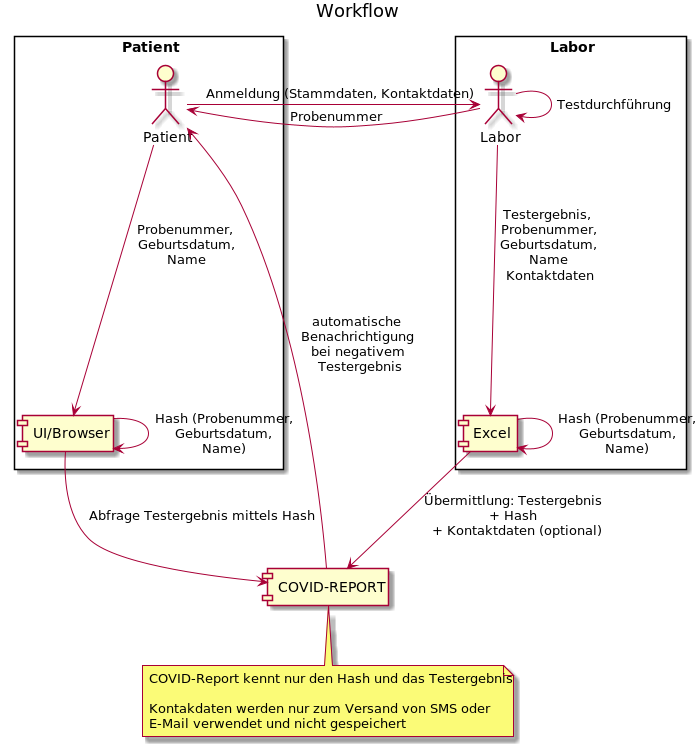
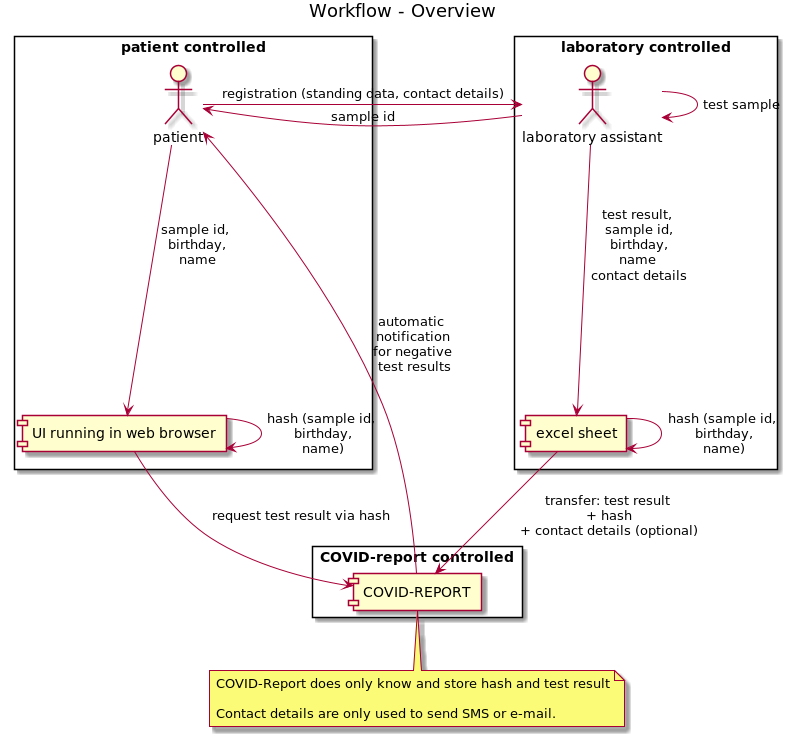
* added more documentation about the system and setup

Changed region(s): [[0.0, 0.0, 0.99, 0.9986], [0.18, 0.2185, 0.36, 0.3745], [0.18, 0.4057, 0.21, 0.4369]]

diff --git a/README.md b/README.md
@@ -1,94 +1,109 @@
-
 [![Open Source Love](https://badges.frapsoft.com/os/v2/open-source.png?v=103)](https://github.com/ellerbrock/open-source-badges/)
 [![MIT Licence](https://badges.frapsoft.com/os/mit/mit.png?v=103)](https://opensource.org/licenses/mit-license.php)
 [![Open API](https://img.shields.io/badge/Documentation-Open_API-green)](https://covid-report-be-qa.azurewebsites.net/swagger-ui/)
 ![Java CI with Maven](https://github.com/COVID-Report/wirvsvirus-backend-quarkus/workflows/Java%20CI%20with%20Maven/badge.svg) [![Coverage Status](https://coveralls.io/repos/github/COVID-Report/wirvsvirus-backend-quarkus/badge.svg?branch=feature/issue3-add-missing-functionality)](https://coveralls.io/github/COVID-Report/wirvsvirus-backend-quarkus?branch=master) [![Sonarcloud Status](https://sonarcloud.io/api/project_badges/measure?project=com.lapots.breed.judge:judge-rule-engine&metric=alert_status)](https://sonarcloud.io/dashboard?id=COVID-Report_wirvsvirus-backend-quarkus)
 
 
-# COVID-Report backend
 
-## Team 1896 - Kommunikation von Testergebnissen
-Backend zum Thema Kommunikation von Testergebnissen. Hier soll der Kommunikationsfluss von Testergebnissen zurück zu den Patienten 
-erleichtert und beschleunigt werden. 
+# COVID-Report: Lightweight automated reporting of test results
 
-## Idee
-Integration eines Informations services in die bestehenden Prozesse der Test Stationen. Der Fokus liegt auf einfacher Bedienbarkeit 
-für medizinisches Personal und Patienten. 
-Ein besonderer Punkt ist die Lösung des Problems, dass aktuell Patienten mit negativem Testergebnis aktuell keine aktive 
-Benachrichtigung erhalten. Dies führt zu erheblichen Unsicherheiten bei den Patienten.
+COVID-Report is a simple system to automate the notification of medical test results.
 
-## Umsetzung
+It was started in the [#WIRVSVIRUS](https://wirvsvirus.org/) hackathon of the german goverment.
+There is a [(german) description of hackathon idea on devpost.com](https://devpost.com/software/1986-kommunikation-von-testergebnissen).
 
-### Schnittstellen
-* REST API zum Hinterlegen von anonymisierten Testergebnissen (nicht öffentlich, für medizinische Einrichtungen)
-* REST API zum Erfragen von Testergebnissen (anonyme Nutzung durch Web UI)
-* [Beschreibung der Schnittstelle als Open API](https://covid-report-be-qa.azurewebsites.net/swagger-ui/)
+The goal was to provide a secure, easy to use and easy to integrate service to report negative test results to patients.
 
-### Funktionen
-Zusätzlich zu den oben genannten APIs soll der Service auch ermöglichen automatisiert Benachrichtigungen an die Patienten zu versenden
-(sofern diese sich mit Kontaktinformationen beim Test angemeldet haben). Aktuell prototypisch implementiert sind: 
-* Webseite
-* EMail
-* SMS
+Positive test results should still be delivered by the health personal since the patient probably has questions that should be answered.
 
-weitere Kanäle in Planung
-* Telefon (via automatisiertem Anruf)
+## The COVID-Report system
 
-#### Workflow
+![Building blocks](images/building_blocks.png)
+
+The COVID-Report system consists of three components
+
+* an Angular frontend [wirvsvirus-testergebnis-ui](https://github.com/COVID-Report/wirvsvirus-testergebnis-ui)
+   * it provides an UI for the patient to request the test status and result
+* an Java backend [wirvsvirus-backend-quarkus](https://github.com/COVID-Report/wirvsvirus-backend-quarkus)
+   * provides REST interfaces for UI and laboratory integration
+* an example laboratory integration via excel templates [WirVsVirus-1896-Excel-Template](https://github.com/COVID-Report/WirVsVirus-1896-Excel-Template)
+   * This is mainly to show how an integration can work. 
+   Laboratories probably want to integrate the solution in their already existing systems.
+   
+## Workflow
+
+![Workflow](images/workflow_sequence.png)
+
+* When a patient is tested, a sample is taken e.g. at the doctor or in a hospital. 
+   * the patient leaves her name, birthday, contact details and received a sample id
+
+* After the sample has been tested to result is uploaded to the COVID-Report backend.
+   * The result is uploaded together with a hash code which has been generated from the sample id, 
+   the name and birthday of the patient.
+   * Optional some contact details like e-mail address or mobile number are sent to the backend.
+
+* The backend stores the hash and test result pair in it's database.
+* When the test result is negative and contact details are passed,
+the backend informs the patient about the test result.
+** The contact details are only used for notification and are not stored in the backend.
+* The patient can use the COVID-Report frontend UI to check the test status.
+   * She enters the sample id, name and birthday on the website which calculates the hash and requests the backend 
+for the test result associated with that hash.
+
+
+### Communication flow
 ![Workflow](images/workflow.png)
 
-* Patient meldet sich beim medizinischen Personal an (mit Stammdaten und evtl. Kontaktdaten)
-* Patient erhält seine Probennummer (erstellt vom medizinischen Personal/Labor)
-* Test wird vom Labor durchgeführt und rückgemeldet
-* via hashing wird eine anonymisierte Id erstellt (enthält: Geburtsdatum, Name, Probennummer)
-* Testergebnis wird an den Service übermittelt (anonyme Id + Ergebnis + Kontaktinformation falls vorhanden)
-* Testergebnis wird unter anonymisierter Id gespeichert, falls Kontaktinformation vorhanden wird eine Nachricht gesendet
-* Testergebnis ist nun via Webseite abrufbar (unter Angabe von Geburtsdatum, Name, Probennummer)
+## Security
 
+The system is designed with data protection in mind. The backend stores the test results together with a hash.
+The hash is created from multiple values - in the default setup from the patients name and birthday 
+and the id of the sample taken. 
 
-### Systemübersicht
+Only if these three values are known, one can request the result from the backend.
+Pushing test results to the backend is also protected by username/password credentials.
 
-* client für medizinisches Personal (Excel)
-* backend (dieser service)
-* [frontend (Website für Zugriff auf Informationen zum Testergebnis)](https://github.com/DominikGri/wirvsvirus-testergebnis-ui)
+## Setting up the system
 
-## Links
-* hackathon https://wirvsvirushackathon.org/
-* topics https://airtable.com/shrs71ccUVKyvLlUA/tbl6Br4W3IyPGk1jt/viw7AlEju6qFtXJqL?blocks=hide
-* https://github.com/DominikGri/wirvsvirus-testergebnis-ui
+COVID-Report can be run on a public cloud (we used Microsoft Azure for testing) as well as 
+on a local server.
 
-## The backend project
+There is a [docker-compose file](https://github.com/COVID-Report/wirvsvirus-compose) to run an environment using docker.
+ 
+### Requirements
 
-This implementation uses [Quarkus](https://quarkus.io/)
+* Backend
+  * System requirements: Java SE 11, 1 GB RAM 
+     * our test system runs in Azure App Service Plan F1
+  * a [mongodb](https://www.mongodb.com/) to persist the data (mandatory)
+  * a [sendgrid account](https://app.sendgrid.com/) to send e-mails (optional)
+  * a [sms4 account](https://www.sms4.de) to send SMS (optional)
+  * see [README-Configuration.md](README-Configuration.md) for configuration parameters
+  
+* Frontend
+  * a web server hosting the application file (e.g. nginx)
+     * our test system uses an Azure Storage with "Static website" feature enabled
+     
 
+### Links
 
-## Running the application in dev mode
+* [wirvsvirus-testergebnis-ui](https://github.com/COVID-Report/wirvsvirus-testergebnis-ui)
+* [wirvsvirus-backend-quarkus](https://github.com/COVID-Report/wirvsvirus-backend-quarkus)
+    * [Backend readme](https://github.com/COVID-Report/wirvsvirus-backend-quarkus/README-Backend.md)
+    * [Backend API description Swagger UI](https://joemat-crtest.azurewebsites.net/swagger-ui/)
+    * API examples for IntelliJ REST client: [restclient/restclient.rest](restclient/restclient.rest)
+* [WirVsVirus-1896-Excel-Template](https://github.com/COVID-Report/WirVsVirus-1896-Excel-Template)
 
-To run the application a mongodb is required.
+#### Test environment 
 
-You can run your application in dev mode that enables live coding using:
-```
-./mvnw quarkus:dev
-```
+* [Frontend UI](https://covidreportuitest.z6.web.core.windows.net/index.html)
+* [Backend API description Swagger UI](https://joemat-crtest.azurewebsites.net/swagger-ui/)
 
-## Packaging and running the application
+First request may take multiple seconds since app is started on request.
 
-The application can be packaged using `./mvnw package`.
-It produces the jar file in the `/target` directory.
-Be aware that it’s not an _über-jar_ as the dependencies are copied into the `target/lib` directory.
+Test users
 
-The application is now runnable using `java -jar target/backend-1.0.0-SNAPSHOT-runner.jar`.
-
-## Creating a native executable
-
-You can create a native executable using: `./mvnw package -Pnative`.
-
-Or, if you don't have GraalVM installed, you can run the native executable build in a container using: `./mvnw package -Pnative -Dquarkus.native.container-build=true`.
-
-You can then execute your native executable with: `./target/backend-1.0.0-SNAPSHOT-runner`
-
-If you want to learn more about building native executables, please consult https://quarkus.io/guides/building-native-image-guide.
-
-## Endpoints
-
-See [restclient/restclient.rest](restclient/restclient.rest)
+|Sample Id | Name |    Birthday | Test result |
+|----------|------|-------------|-------------|
+|    123   | John |  01.02.1980 | negative    |
+|    123   |  Doe |  01.02.1980 | positive    |

diff --git a/README-Backend.md b/README-Backend.md
@@ -1,0 +1,94 @@
+
+[![Open Source Love](https://badges.frapsoft.com/os/v2/open-source.png?v=103)](https://github.com/ellerbrock/open-source-badges/)
+[![MIT Licence](https://badges.frapsoft.com/os/mit/mit.png?v=103)](https://opensource.org/licenses/mit-license.php)
+[![Open API](https://img.shields.io/badge/Documentation-Open_API-green)](https://covid-report-be-qa.azurewebsites.net/swagger-ui/)
+![Java CI with Maven](https://github.com/COVID-Report/wirvsvirus-backend-quarkus/workflows/Java%20CI%20with%20Maven/badge.svg) [![Coverage Status](https://coveralls.io/repos/github/COVID-Report/wirvsvirus-backend-quarkus/badge.svg?branch=feature/issue3-add-missing-functionality)](https://coveralls.io/github/COVID-Report/wirvsvirus-backend-quarkus?branch=master) [![Sonarcloud Status](https://sonarcloud.io/api/project_badges/measure?project=com.lapots.breed.judge:judge-rule-engine&metric=alert_status)](https://sonarcloud.io/dashboard?id=COVID-Report_wirvsvirus-backend-quarkus)
+
+
+# COVID-Report backend
+
+## Team 1896 - Kommunikation von Testergebnissen
+Backend zum Thema Kommunikation von Testergebnissen. Hier soll der Kommunikationsfluss von Testergebnissen zurück zu den Patienten 
+erleichtert und beschleunigt werden. 
+
+## Idee
+Integration eines Informations services in die bestehenden Prozesse der Test Stationen. Der Fokus liegt auf einfacher Bedienbarkeit 
+für medizinisches Personal und Patienten. 
+Ein besonderer Punkt ist die Lösung des Problems, dass aktuell Patienten mit negativem Testergebnis aktuell keine aktive 
+Benachrichtigung erhalten. Dies führt zu erheblichen Unsicherheiten bei den Patienten.
+
+## Umsetzung
+
+### Schnittstellen
+* REST API zum Hinterlegen von anonymisierten Testergebnissen (nicht öffentlich, für medizinische Einrichtungen)
+* REST API zum Erfragen von Testergebnissen (anonyme Nutzung durch Web UI)
+* [Beschreibung der Schnittstelle als Open API](https://covid-report-be-qa.azurewebsites.net/swagger-ui/)
+
+### Funktionen
+Zusätzlich zu den oben genannten APIs soll der Service auch ermöglichen automatisiert Benachrichtigungen an die Patienten zu versenden
+(sofern diese sich mit Kontaktinformationen beim Test angemeldet haben). Aktuell prototypisch implementiert sind: 
+* Webseite
+* EMail
+* SMS
+
+weitere Kanäle in Planung
+* Telefon (via automatisiertem Anruf)
+
+#### Workflow
+![Workflow](images/workflow.png)
+
+* Patient meldet sich beim medizinischen Personal an (mit Stammdaten und evtl. Kontaktdaten)
+* Patient erhält seine Probennummer (erstellt vom medizinischen Personal/Labor)
+* Test wird vom Labor durchgeführt und rückgemeldet
+* via hashing wird eine anonymisierte Id erstellt (enthält: Geburtsdatum, Name, Probennummer)
+* Testergebnis wird an den Service übermittelt (anonyme Id + Ergebnis + Kontaktinformation falls vorhanden)
+* Testergebnis wird unter anonymisierter Id gespeichert, falls Kontaktinformation vorhanden wird eine Nachricht gesendet
+* Testergebnis ist nun via Webseite abrufbar (unter Angabe von Geburtsdatum, Name, Probennummer)
+
+
+### Systemübersicht
+
+* client für medizinisches Personal (Excel)
+* backend (dieser service)
+* [frontend (Website für Zugriff auf Informationen zum Testergebnis)](https://github.com/DominikGri/wirvsvirus-testergebnis-ui)
+
+## Links
+* hackathon https://wirvsvirushackathon.org/
+* topics https://airtable.com/shrs71ccUVKyvLlUA/tbl6Br4W3IyPGk1jt/viw7AlEju6qFtXJqL?blocks=hide
+* https://github.com/DominikGri/wirvsvirus-testergebnis-ui
+
+## The backend project
+
+This implementation uses [Quarkus](https://quarkus.io/)
+
+
+## Running the application in dev mode
+
+To run the application a mongodb is required.
+
+You can run your application in dev mode that enables live coding using:
+```
+./mvnw quarkus:dev
+```
+
+## Packaging and running the application
+
+The application can be packaged using `./mvnw package`.
+It produces the jar file in the `/target` directory.
+Be aware that it’s not an _über-jar_ as the dependencies are copied into the `target/lib` directory.
+
+The application is now runnable using `java -jar target/backend-1.0.0-SNAPSHOT-runner.jar`.
+
+## Creating a native executable
+
+You can create a native executable using: `./mvnw package -Pnative`.
+
+Or, if you don't have GraalVM installed, you can run the native executable build in a container using: `./mvnw package -Pnative -Dquarkus.native.container-build=true`.
+
+You can then execute your native executable with: `./target/backend-1.0.0-SNAPSHOT-runner`
+
+If you want to learn more about building native executables, please consult https://quarkus.io/guides/building-native-image-guide.
+
+## Endpoints
+
+See [restclient/restclient.rest](restclient/restclient.rest)

diff --git a/README-Configuration.md b/README-Configuration.md
@@ -1,4 +1,4 @@
-## Settings for deploying as Azure App Service
+## Settings for running the backend
 
 ### Application settings
 
@@ -6,6 +6,7 @@
 | --- | --- |
 | `QUARKUS_HTTP_PORT` | `80` |
 | `QUARKUS_MONGODB_CONNECTION_STRING` | `mongodb+srv://<dbuser>:<password>@<clustername>/<db>`
+| `QUARKUS_HTTP_CORS_ORIGINS`| Origin of frontend (e.g. `https://foo.com`)
 | `SENDGRID_APIKEY` | `XXXXXXX`|
 | `SMS4_PASSWORD` | `XXXX` |
 
